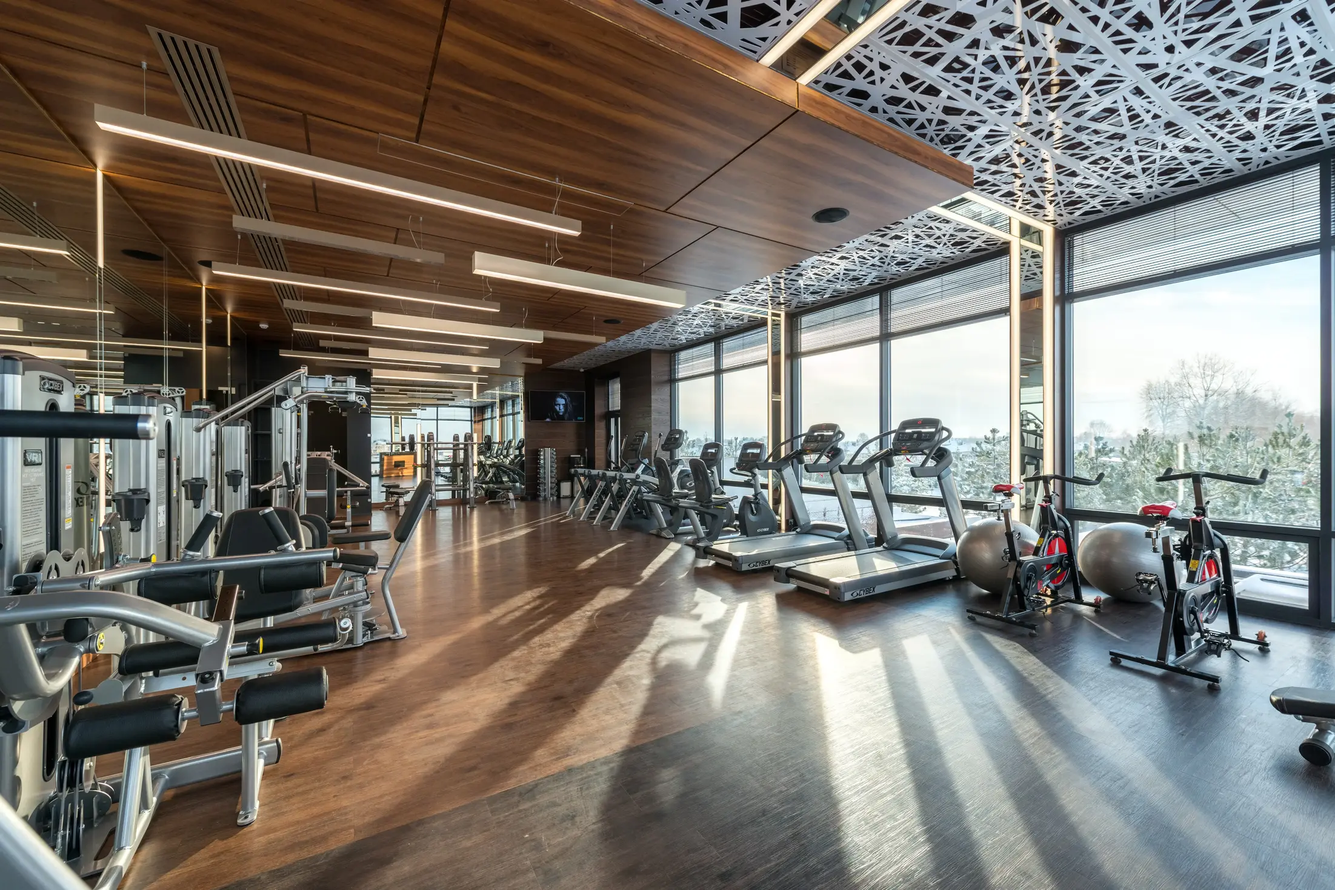
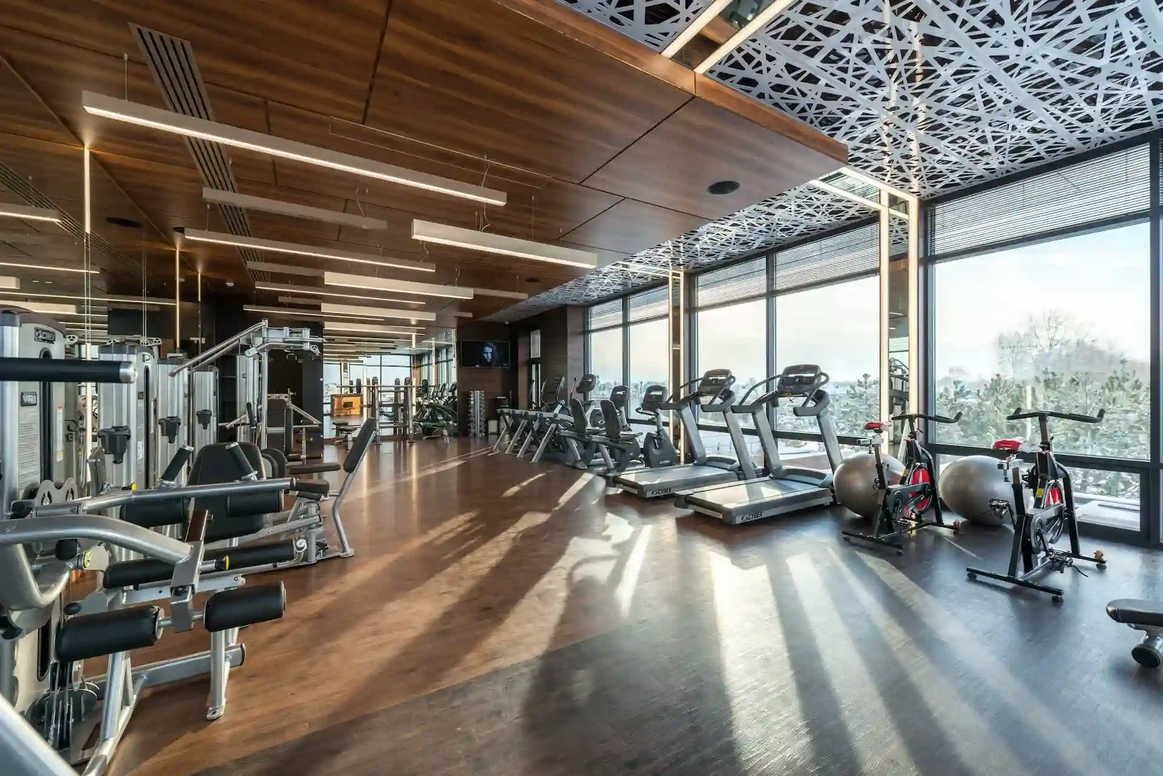
refactor: compress images and font size

diff --git a/index.html b/index.html
@@ -27,9 +27,7 @@
     <main class="main">
         <section class="section__hero">
             <header class="header">
-                <img class="header-bg" src="img/bg/bg2-medium.webp" alt="Imagen de fondo"
-                srcset="img/bg/bg2-small.webp 400w, img/bg/bg2-medium.webp 600w, img/bg/bg2.webp 900w">
-                <div class="header__overlay"></div>
+                <img class="header-bg" src="img/bg/bg2.webp" alt="Imagen de fondo">                <div class="header__overlay"></div>
                 <div class="header__item-conteiner">
                     <h1 class="hero__title">Tu destino para alcanzar tus metas de acondicionamiento físico y 
                     bienestar</h1>

diff --git a/css/about-us.css b/css/about-us.css
@@ -28,8 +28,12 @@
             z-index: 2;
             position: relative;
         }
+        & .hero__title {
+            font-size: 2rem;
+        }
         & .hero__subtitle {
             max-width: 300px;
+            font-size: 1.2rem;
         }
     }
 }
